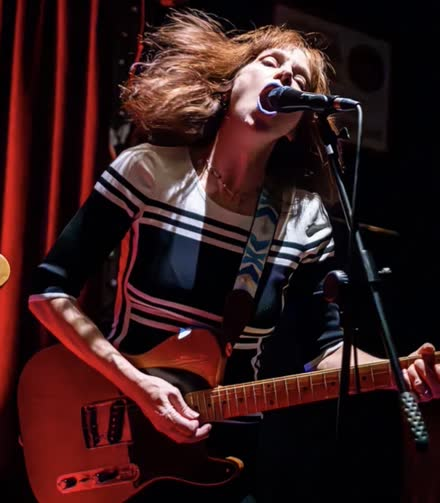
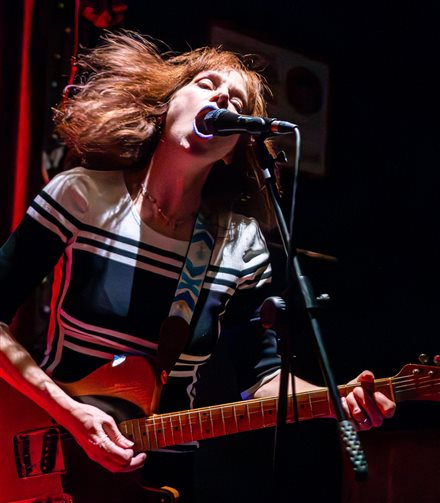
clean up code

diff --git a/index.html b/index.html
@@ -1918,6 +1918,19 @@ a.tss-review:hover { opacity: .72; }
 @media (min-width: 861px) and (max-height: 820px) {
   .live-gallery { --gh: calc(100vh - 280px); }
 }
+/* Contact was fixed to anchor its heading to the top (so it can't get cut
+   off above the fold on a short window) — but that means the full stack
+   (heading + form + footer line) can now run past the BOTTOM instead on
+   the same short laptop screens. Tighten the vertical rhythm so the whole
+   thing fits without clipping either edge. */
+@media (min-width: 861px) and (max-height: 820px) {
+  .contact-content { padding-top: calc(var(--nav-h) + 14px); }
+  .contact-content .section-title { margin-bottom: 8px; }
+  .contact-content .section-body { margin-bottom: 0; }
+  .contact-email { margin-top: 6px; }
+  .contact-form { margin-top: 20px; gap: 12px; }
+  .contact-sub { margin-top: 16px; }
+}
 </style>
 </head>
 <body>
@@ -2264,7 +2277,7 @@ a.tss-review:hover { opacity: .72; }
         <span class="live-photo-credit">Almonte Town Hall, Almonte CAN · video by Bernard Fraser</span>
       </div>
     </div>
-    <p class="live-credit">Photos: <a href="https://www.instagram.com/fotolocationally/" target="_blank" rel="noopener">@fotolocationally</a> (Karman Festival, Augsburg DE) · <a href="https://www.instagram.com/romeomayorphotography" target="_blank" rel="noopener">Romeomayor</a> &amp; <a href="https://www.instagram.com/theyoumanyvo/" target="_blank" rel="noopener">Yvo Van der Vat</a> (Dordrecht NL) · <a href="https://www.instagram.com/josetta_mellies/" target="_blank" rel="noopener">Josetta Mellies</a> (Valthermond NL) · Norbert Höffler (Szeged HU) · <a href="https://www.instagram.com/jacek_mojta_fotografie/" target="_blank" rel="noopener">Jacek Mójta</a> (Tuczno PL) · <a href="https://www.instagram.com/gordmccaw/" target="_blank" rel="noopener">Gordon E. McCaw</a> (Vancouver CA) · <a href="https://www.instagram.com/claudiabuzzetti/" target="_blank" rel="noopener">Claudia Buzzetti</a> (A38, Budapest HU) · <a href="https://www.instagram.com/maria_carbonell_photographer" target="_blank" rel="noopener">María Carbonell</a> (Fabrica de Hielo, Valencia ES)<br>Videos: Jack Burton (Fabrica de Hielo, Valencia ES) · Paola Seregni (Joshua Blues Club, Como IT) · Bernard Fraser (Almonte Town Hall, Almonte CAN)</p>
+    <p class="live-credit">Photos: <a href="https://www.instagram.com/fotolocationally/" target="_blank" rel="noopener">@fotolocationally</a> (Karman Festival, Augsburg DE) · <a href="https://www.instagram.com/romeomayorphotography" target="_blank" rel="noopener">Romeomayor</a> &amp; <a href="https://www.instagram.com/theyoumanyvo/" target="_blank" rel="noopener">Yvo Van der Vat</a> (Dordrecht NL) · <a href="https://www.instagram.com/josetta_mellies/" target="_blank" rel="noopener">Josetta Mellies</a> (Valthermond NL) · Norbert Höffler (Szeged HU) · <a href="https://www.instagram.com/jacek_mojta_fotografie/" target="_blank" rel="noopener">Jacek Mójta</a> (Tuczno PL) · <a href="https://www.instagram.com/gordmccaw/" target="_blank" rel="noopener">Gordon E. McCaw</a> (Vancouver CA) · <a href="https://www.instagram.com/claudiabuzzetti/" target="_blank" rel="noopener">Claudia Buzzetti</a> (A38, Budapest HU) · <a href="https://www.instagram.com/maria_carbonell_photographer" target="_blank" rel="noopener">María Carbonell</a> (CEX, Valencia ES)<br>Videos: Jack Burton (CEX, Valencia ES) · Paola Seregni (Joshua Blues Club, Como IT) · Bernard Fraser (Almonte Town Hall, Almonte CAN)</p>
   </div>
 </section>
 